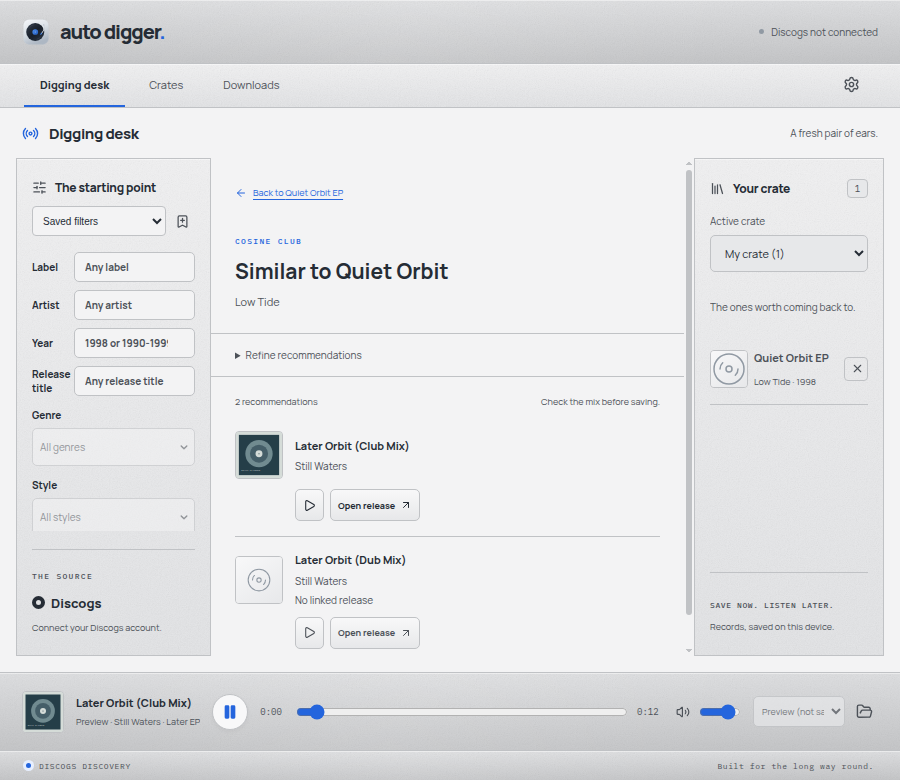
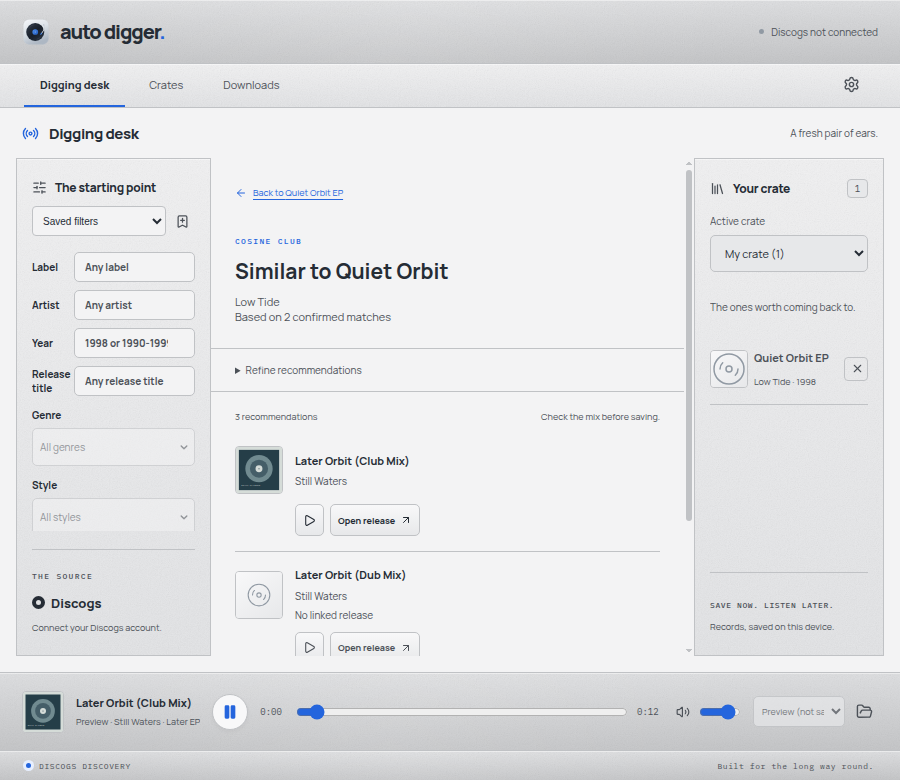
docs: explain combined Cosine discovery and record live verification

Changed region(s): [[0.2489, 0.4, 0.4667, 0.8615], [0.5911, 0.4923, 0.7467, 0.5538], [0.7467, 0.6769, 0.7778, 0.8]]

diff --git a/docs/adr/0010-cosine-recommendations.md b/docs/adr/0010-cosine-recommendations.md
@@ -6,7 +6,9 @@ Cosine Club is a recommendation provider. Discogs owns release metadata, while Y
 
 Use the existing encrypted token store and the request/response IPC boundary described in [ADR 0002](0002-discogs-boundary.md) and [ADR 0003](0003-remembered-discogs-account.md). These follow Electron's documented [IPC](https://www.electronjs.org/docs/latest/tutorial/ipc) and [safeStorage](https://www.electronjs.org/docs/latest/api/safe-storage) patterns. No client implementation is copied and no dependency is added. API requests and decrypted keys stay in main. The renderer receives validated Results through a narrow preload API. Saving a key reports that it was saved; authentication is checked when requesting recommendations.
 
-Follow the [Cosine API contract](https://registry.scalar.com/@cosine/apis/cosineclub-api/): look up the selected YouTube upload, then request similar tracks for its unique Cosine identity using Bearer authentication and a named User-Agent. Optional start/end years refine an explicit request. Show at most ten results. Collapse duplicate IDs and canonical upload URLs in results, preserving different uploads and mix titles. Multiple identities in lookup are ambiguous even if they share an upload; never silently choose one. Not-indexed uploads, rejected keys, rate limits and network failures are deliberate, safe failures.
+Follow the [Cosine API contract](https://registry.scalar.com/@cosine/apis/cosineclub-api/): search by primary artist and full track title first, then look up the selected YouTube upload. Confirm the name-search hits against the normalized artist and complete mix title; remove Discogs artist-number suffixes for searching. The search examines up to ten hits. Combine distinct confirmed Cosine identities from both routes, request recommendations once per identity, then concatenate in artist/title-first order and collapse repeated IDs/canonical uploads. Exclude every seed from the final recommendations and show at most ten results. Full mix names remain intact. Multiple identities for a YouTube upload need a confirming artist/title match; conflicting recordings do not override confirmed name matches.
+
+Requests use Bearer authentication and a named User-Agent. Optional start/end years refine recommendations for every confirmed seed. Not-found from one discovery route allows the other to work. Available results survive transient route or similarity failures with an explicit partial-results notice. Discovery authentication/rate-limit failures remain deliberate failures. The UI shows the number of confirmed matches when several contribute to the list.
 
 Recommendations open in the digging desk on request. The user's filters and random digging history are retained. Opening a linked EP keeps a return to the recommendation list and the original EP. Independently navigating to another record dismisses this detour. Late request completions cannot restore a dismissed view. Settings contains only credential controls, with no API lab or prototype switch.
 

diff --git a/docs/verification/cosine-recommendations/README.md b/docs/verification/cosine-recommendations/README.md
@@ -7,11 +7,12 @@ Verified on Linux with the built Electron application. The feature branch starts
 - Save a masked Cosine key in Settings; clear the input after saving, retain it encrypted across restart and forget it explicitly. The fixture uses synthetic OS encryption; actual desktop keyring access still depends on the user's desktop session.
 - Open a saved EP and choose the visibly labelled Find similar button beside its preview/download actions. See full mix titles, deduplicated uploads and explicit unavailable controls for a missing linked release.
 - Linked release covers load progressively, with one lookup per distinct pressing in sequence. Preview/open share pending metadata for the same recommendation. Failed lookups can retry, and dismissing the journey stops the remaining queue and ignores late cover metadata. The existing RecordArtwork component handles missing or broken images.
+- Artist/title search runs before the YouTube lookup. The native fixture confirms that both sources contribute, repeated recommendations collapse, and a shared Cosine identity makes only one similarity request. Unit checks reject unrelated mix hits, exclude conflicting recordings and preserve available results when one request fails.
 - Refine years only when Refresh is chosen. Preview without creating a download, open the linked pressing, and use the normal Download action. The native test checks one audio fetch, the saved metadata, ID3 style genre and configured folder hierarchy.
 - Return from a linked EP to recommendations with refinement retained, then to the original EP with digging filters retained. Dismissing a request ignores late completion. Provider failure stays readable and allows returning to the EP.
 - Manually exercised the rendered desktop at 1440 by 1000 and 900 by 780, inspected screenshots and checked for horizontal overflow and visible alerts. Fixed the credential field's intrinsic width after inspecting its actual layout.
 
-The screenshots use synthetic catalogue/API data and audio to keep the demo deterministic and avoid publishing private account or crate information. Public metadata resolution uses the real application's fixed Discogs boundary. Cosine's authenticated lookup/similar contract was verified live in the earlier feasibility work; these screenshots do not claim a new live-provider test.
+The screenshots use synthetic catalogue/API data and audio to keep the demo deterministic and avoid publishing private account or crate information. Public metadata resolution uses the real application's fixed Discogs boundary. Separately verified the production API live with the saved key: Billabong returns ten recommendations using artist/title plus YouTube, and still returns ten when the control uses an unindexed upload. The user's earlier I Love You (Dub) lookup has no confirmed match from either route. The live desk shows ten results without an alert. Live screenshots containing the user's profile stay local and are not published here.
 
 ## Screenshots
 

diff --git a/CONTEXT.md b/CONTEXT.md
@@ -24,4 +24,4 @@ Downloads presents one searchable track list. Current jobs and durable tracks sh
 
 Mix research is an opt-in local MCP workflow. An AI host supplies a sourced mix tracklist and recording-match judgment; the app verifies Discogs release IDs, stores named crate memberships/picks/tags and retains source evidence with confirmed, candidate or unresolved certainty. Research is crate-owned SQLite data, distinct from Discogs metadata and downloads. A separate SDK stdio process forwards narrow operations to the running app without receiving its Discogs credential. Claude Desktop installs a locally exported MCP bundle containing that helper and its dependencies. Other local clients use the included Electron runtime in Node mode. Access is disabled at startup and revocable in Settings. Research uses the same optional release-type filters and remains independent of the random digging session.
 
-Cosine Club recommends tracks from a selected YouTube upload through Find similar. A saved API key uses operating system encryption and stays behind main-process IPC. The center desk shows up to ten deduplicated recommendations, preserves full mix names and supports explicit year refinement. Linked Discogs releases open with return navigation to the list and original EP without changing digging filters/history. Preview uses temporary audio; downloading from the linked EP reuses cached bytes and normal Discogs style tags. Only explicit linked Discogs pressing IDs are resolved; unavailable links and uncertain track assignments remain explicit. See [ADR 0010](docs/adr/0010-cosine-recommendations.md).
+Cosine Club searches primary artist/full track title first, then the selected YouTube upload through Find similar. Confirmed matches from both routes contribute recommendations in that order, with duplicates and seed tracks removed. Unrelated search hits are excluded and partial results remain explicit. A saved API key uses operating system encryption and stays behind main-process IPC. The center desk shows up to ten deduplicated recommendations, preserves full mix names and supports explicit year refinement. Linked Discogs releases open with return navigation to the list and original EP without changing digging filters/history. Preview uses temporary audio; downloading from the linked EP reuses cached bytes and normal Discogs style tags. Only explicit linked Discogs pressing IDs are resolved; unavailable links and uncertain track assignments remain explicit. See [ADR 0010](docs/adr/0010-cosine-recommendations.md).
